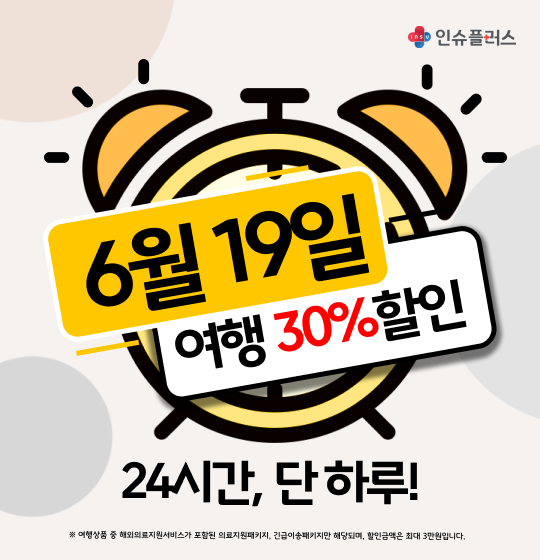
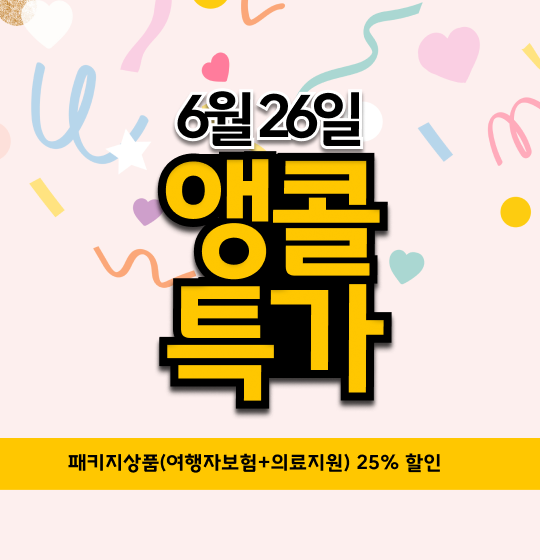
feat: 이벤트 팝업 관련 수정사항 반영

diff --git a/html/_include/_tail.html b/html/_include/_tail.html
@@ -316,7 +316,7 @@
 <div class="popup-box">
     <div class="box" data-name="special" style="max-width: 600px">
         <div class="popup-head">
-            <h3>6월 19일 단 하루! 여행 30% 특가할인</h3>
+            <h3>6월 26일! 앵콜특가 25%할인</h3>
             <a href="javascript:;" class="close" onclick="popupClose();">닫기</a>
         </div>
         <div class="popup-body">
@@ -330,7 +330,7 @@
             </div>
             <script>
                 function movePage2(){
-                    window.location.href="https://insuplus.co.kr/html/customer/event_list.php?mode=view&seq=81";
+                    window.location.href="https://insuplus.co.kr/html/customer/event_list.php?mode=view&seq=83";
                 }
             </script>
         </div>

diff --git a/html/insurance/renewal_step01.php b/html/insurance/renewal_step01.php
@@ -534,6 +534,11 @@ include '../_include/_top.html';
     let orderNumber = 1;
     const html = [];
     const { commonServices, optionServices } = EHDObject;
+    
+    <? $currentDate = date('Y-m-d H:i:s'); ?>
+    let currentDate = new Date("<?= $currentDate; ?>");
+    let startDate = new Date('2024-06-25 00:00');
+    let endDate = new Date('2024-06-26 23:59:59');
 
     // 의료지원 서비스 항목
     commonServices.forEach((item, idx) => {
@@ -542,7 +547,14 @@ include '../_include/_top.html';
         html.push(`  <div class="title-state-box">`);
         html.push(`    <strong>${item.service_group_name}</strong>`);
         html.push(`    <div class="check-box">`);
+        
+        //20240618 이벤트 기간중 보장내역 선택 불가능 처리
+        if (currentDate >= startDate && currentDate <= endDate) {
+        html.push(`      <div class="check-box-inner type01 unclickable">`);
+        html.push(`  <style>.unclickable {pointer-events: none;}</style>`);
+        } else {
         html.push(`      <div class="check-box-inner type01">`);
+        }
         html.push(
           `        <input type="checkbox" value="${item.service_group_name}" id="service-0${orderNumber}" checked />`
         );
@@ -661,6 +673,12 @@ include '../_include/_top.html';
     const html = [];
     const dataList = EHDObject.guarantees;
     const kinds = [];
+    
+    //20240618 이벤트 기간중 보장내역 선택 불가능 처리
+    <? $currentDate = date('Y-m-d H:i:s'); ?>
+    let currentDate = new Date("<?= $currentDate; ?>");
+    let startDate = new Date('2024-06-25 00:00');
+    let endDate = new Date('2024-06-26 23:59:59');
 
     dataList.forEach((item) => kinds.includes(item.guarantee_seq) || kinds.push(item.guarantee_seq));
 
@@ -675,10 +693,15 @@ include '../_include/_top.html';
           buff.push(`  <div class="title-state-box mt12">`);
           buff.push(`    <strong>${item.guarantee_name}</strong>`);
           buff.push(`    <div class="check-box">`);
+          //20240618 이벤트 기간중 보장내역 선택 불가능 처리
+          if (currentDate >= startDate && currentDate <= endDate) {
+          buff.push(`      <div class="check-box-inner type01 unclickable">`);
+          html.push(`  <style>.unclickable {pointer-events: none;}</style>`);
+          } else {
           buff.push(`      <div class="check-box-inner type01">`);
-          buff.push(
-            `        <input type="checkbox" value="${item.guarantee_seq}" id="guarantee-${item.guarantee_seq}" checked/>`
-          );
+          }
+          ///
+          buff.push(`        <input type="checkbox" value="${item.guarantee_seq}" id="guarantee-${item.guarantee_seq}" checked/>`);
           buff.push(`        <label for="guarantee-${item.guarantee_seq}">선택</label>`);
           buff.push(`      </div>`);
           buff.push(`    </div>`);

diff --git a/html/main/index.php b/html/main/index.php
@@ -309,8 +309,8 @@ $_SESSION["orderno"] = "";
 				let currentDate = new Date("<?= $currentDate; ?>");
 
 				// 특정 기간을 설정합니다. (예: 2024년 6월 20일 ~ 2024년 6월 30일)
-				let startDate = new Date('2024-06-18 09:00');
-				let endDate = new Date('2024-06-19 23:50');
+				let startDate = new Date('2024-06-25 09:00');
+				let endDate = new Date('2024-06-26 23:50');
 
 				// 조건에 따라 팝업을 띄웁니다.
 				if (currentDate >= startDate && currentDate <= endDate) {
